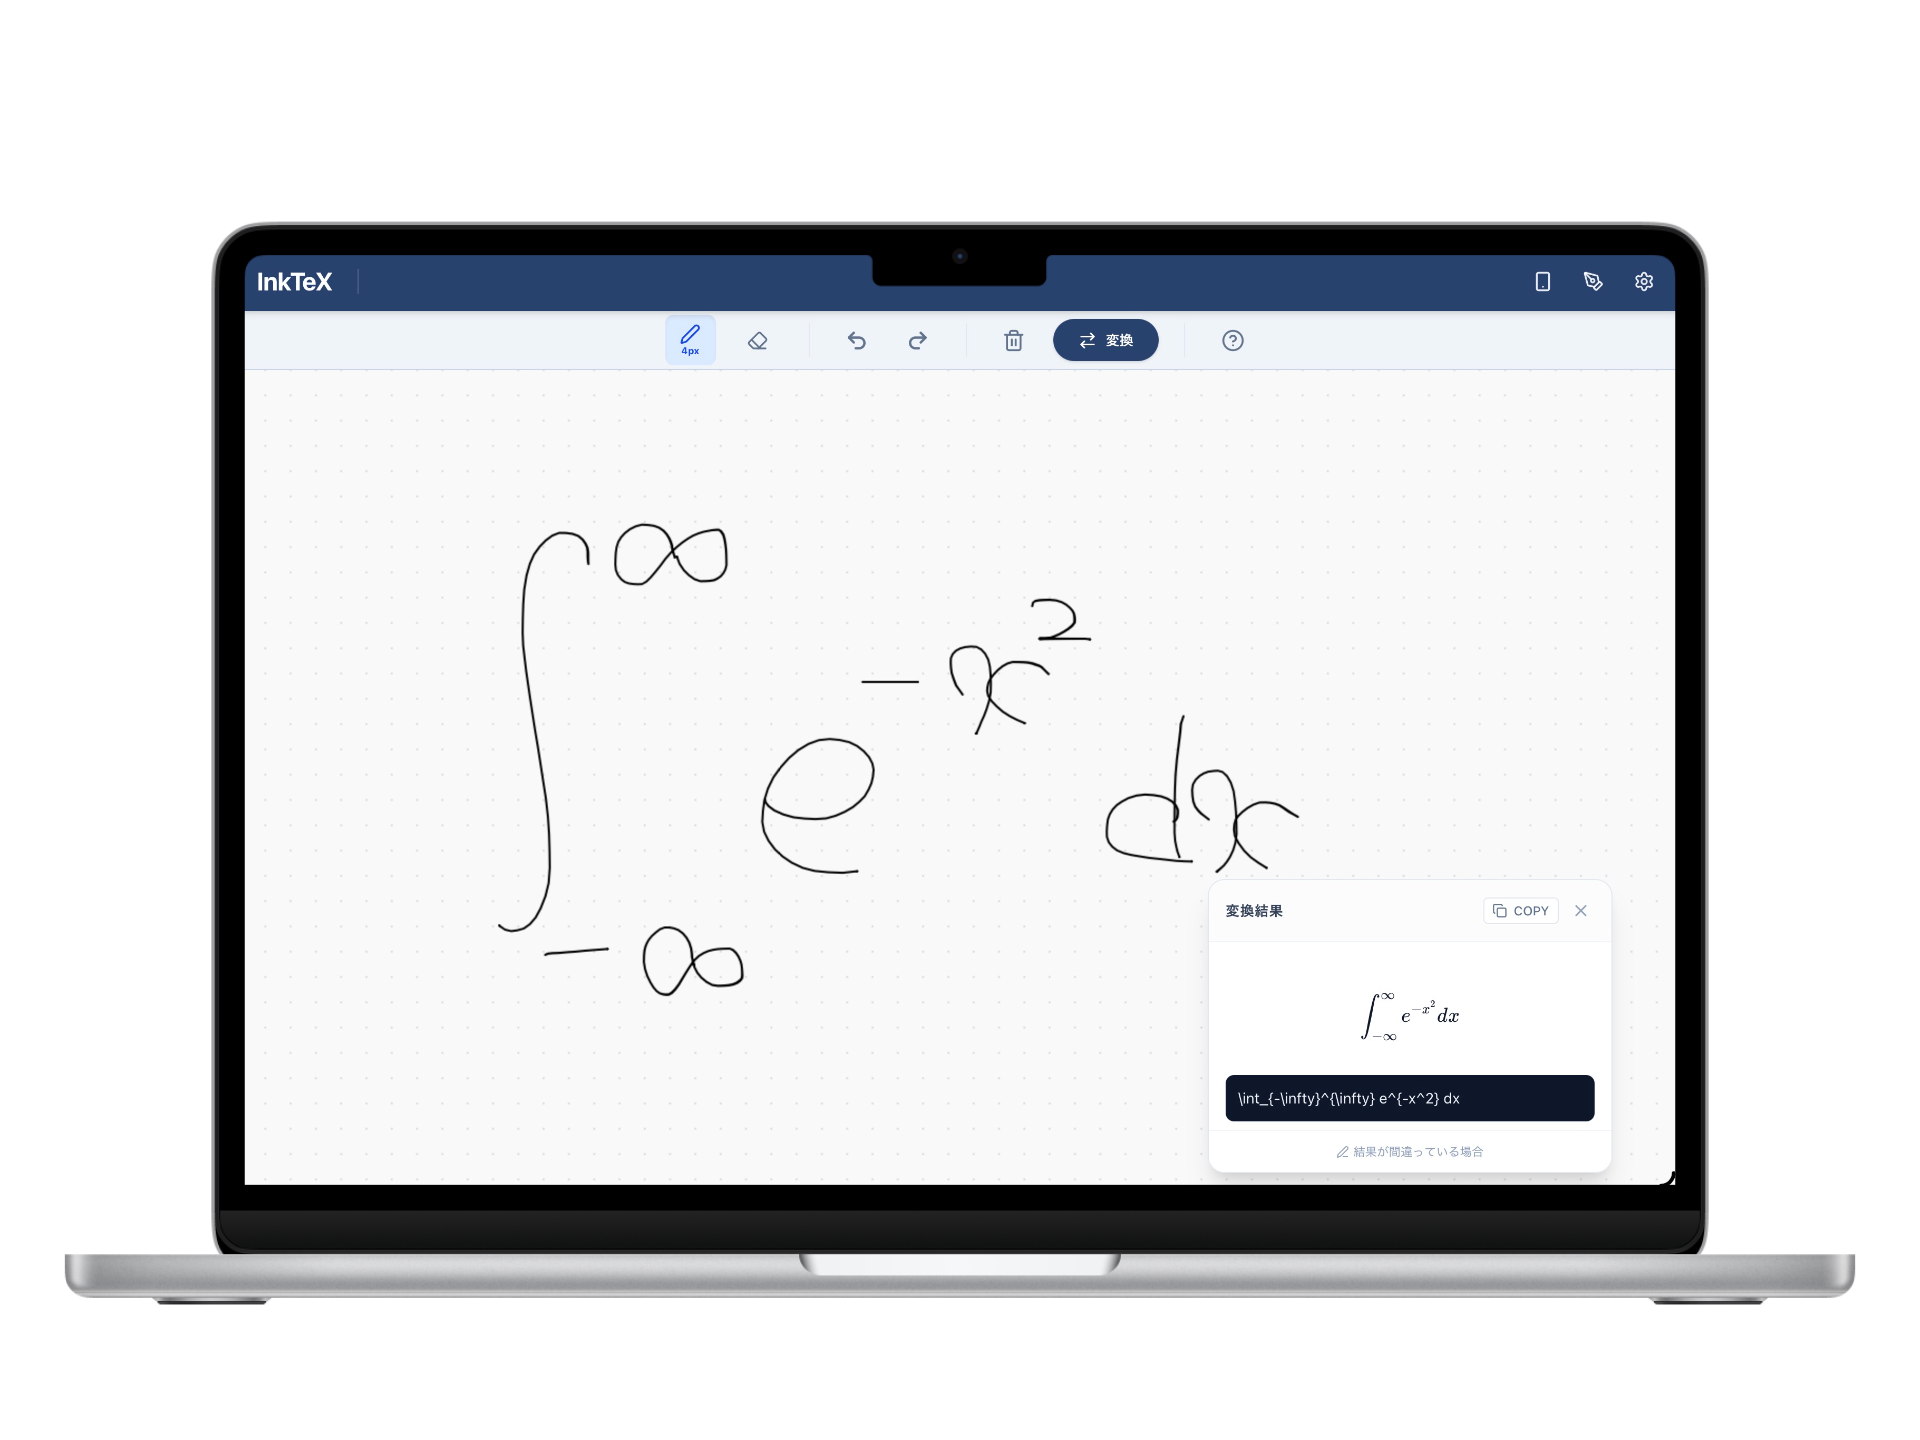
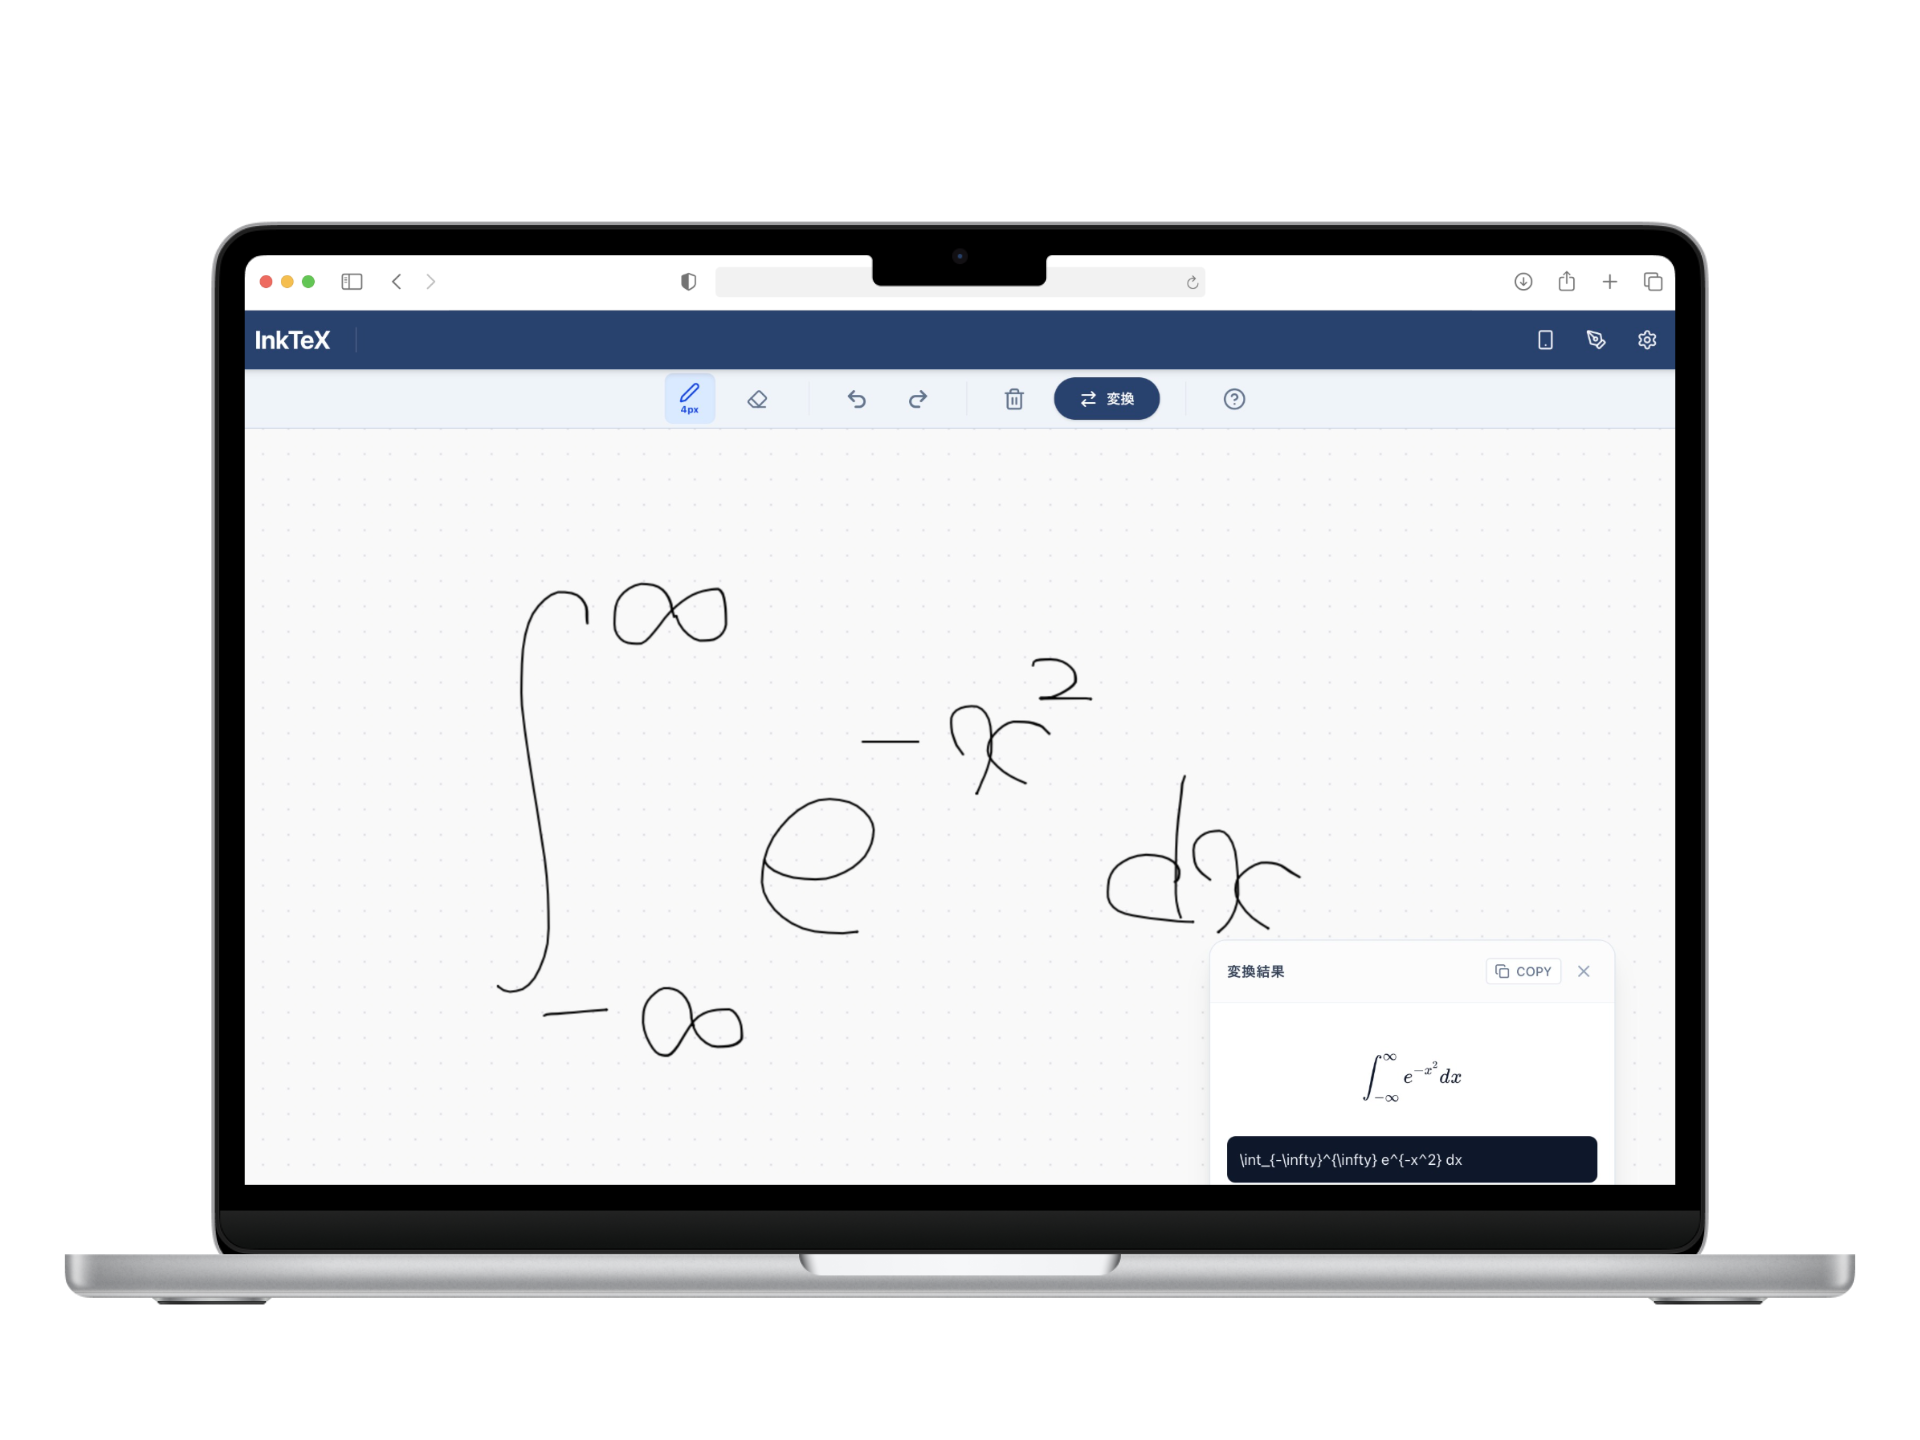
Update FeatureSection and images

diff --git a/components/FeatureSection.tsx b/components/FeatureSection.tsx
@@ -53,7 +53,7 @@ export function FeatureSection() {
                                 "flex-1 w-full flex justify-center",
                                 isEven ? "md:order-1" : "md:order-2"
                             )}>
-                                <div className="relative w-full max-w-[800px] aspect-[16/9] rounded-2xl overflow-hidden">
+                                <div className="relative w-full max-w-[1000px] aspect-[16/9] rounded-2xl overflow-hidden">
                                     {/* Placeholder Logic Removed as requested */}
                                     <Image
                                         src={feature.image}
